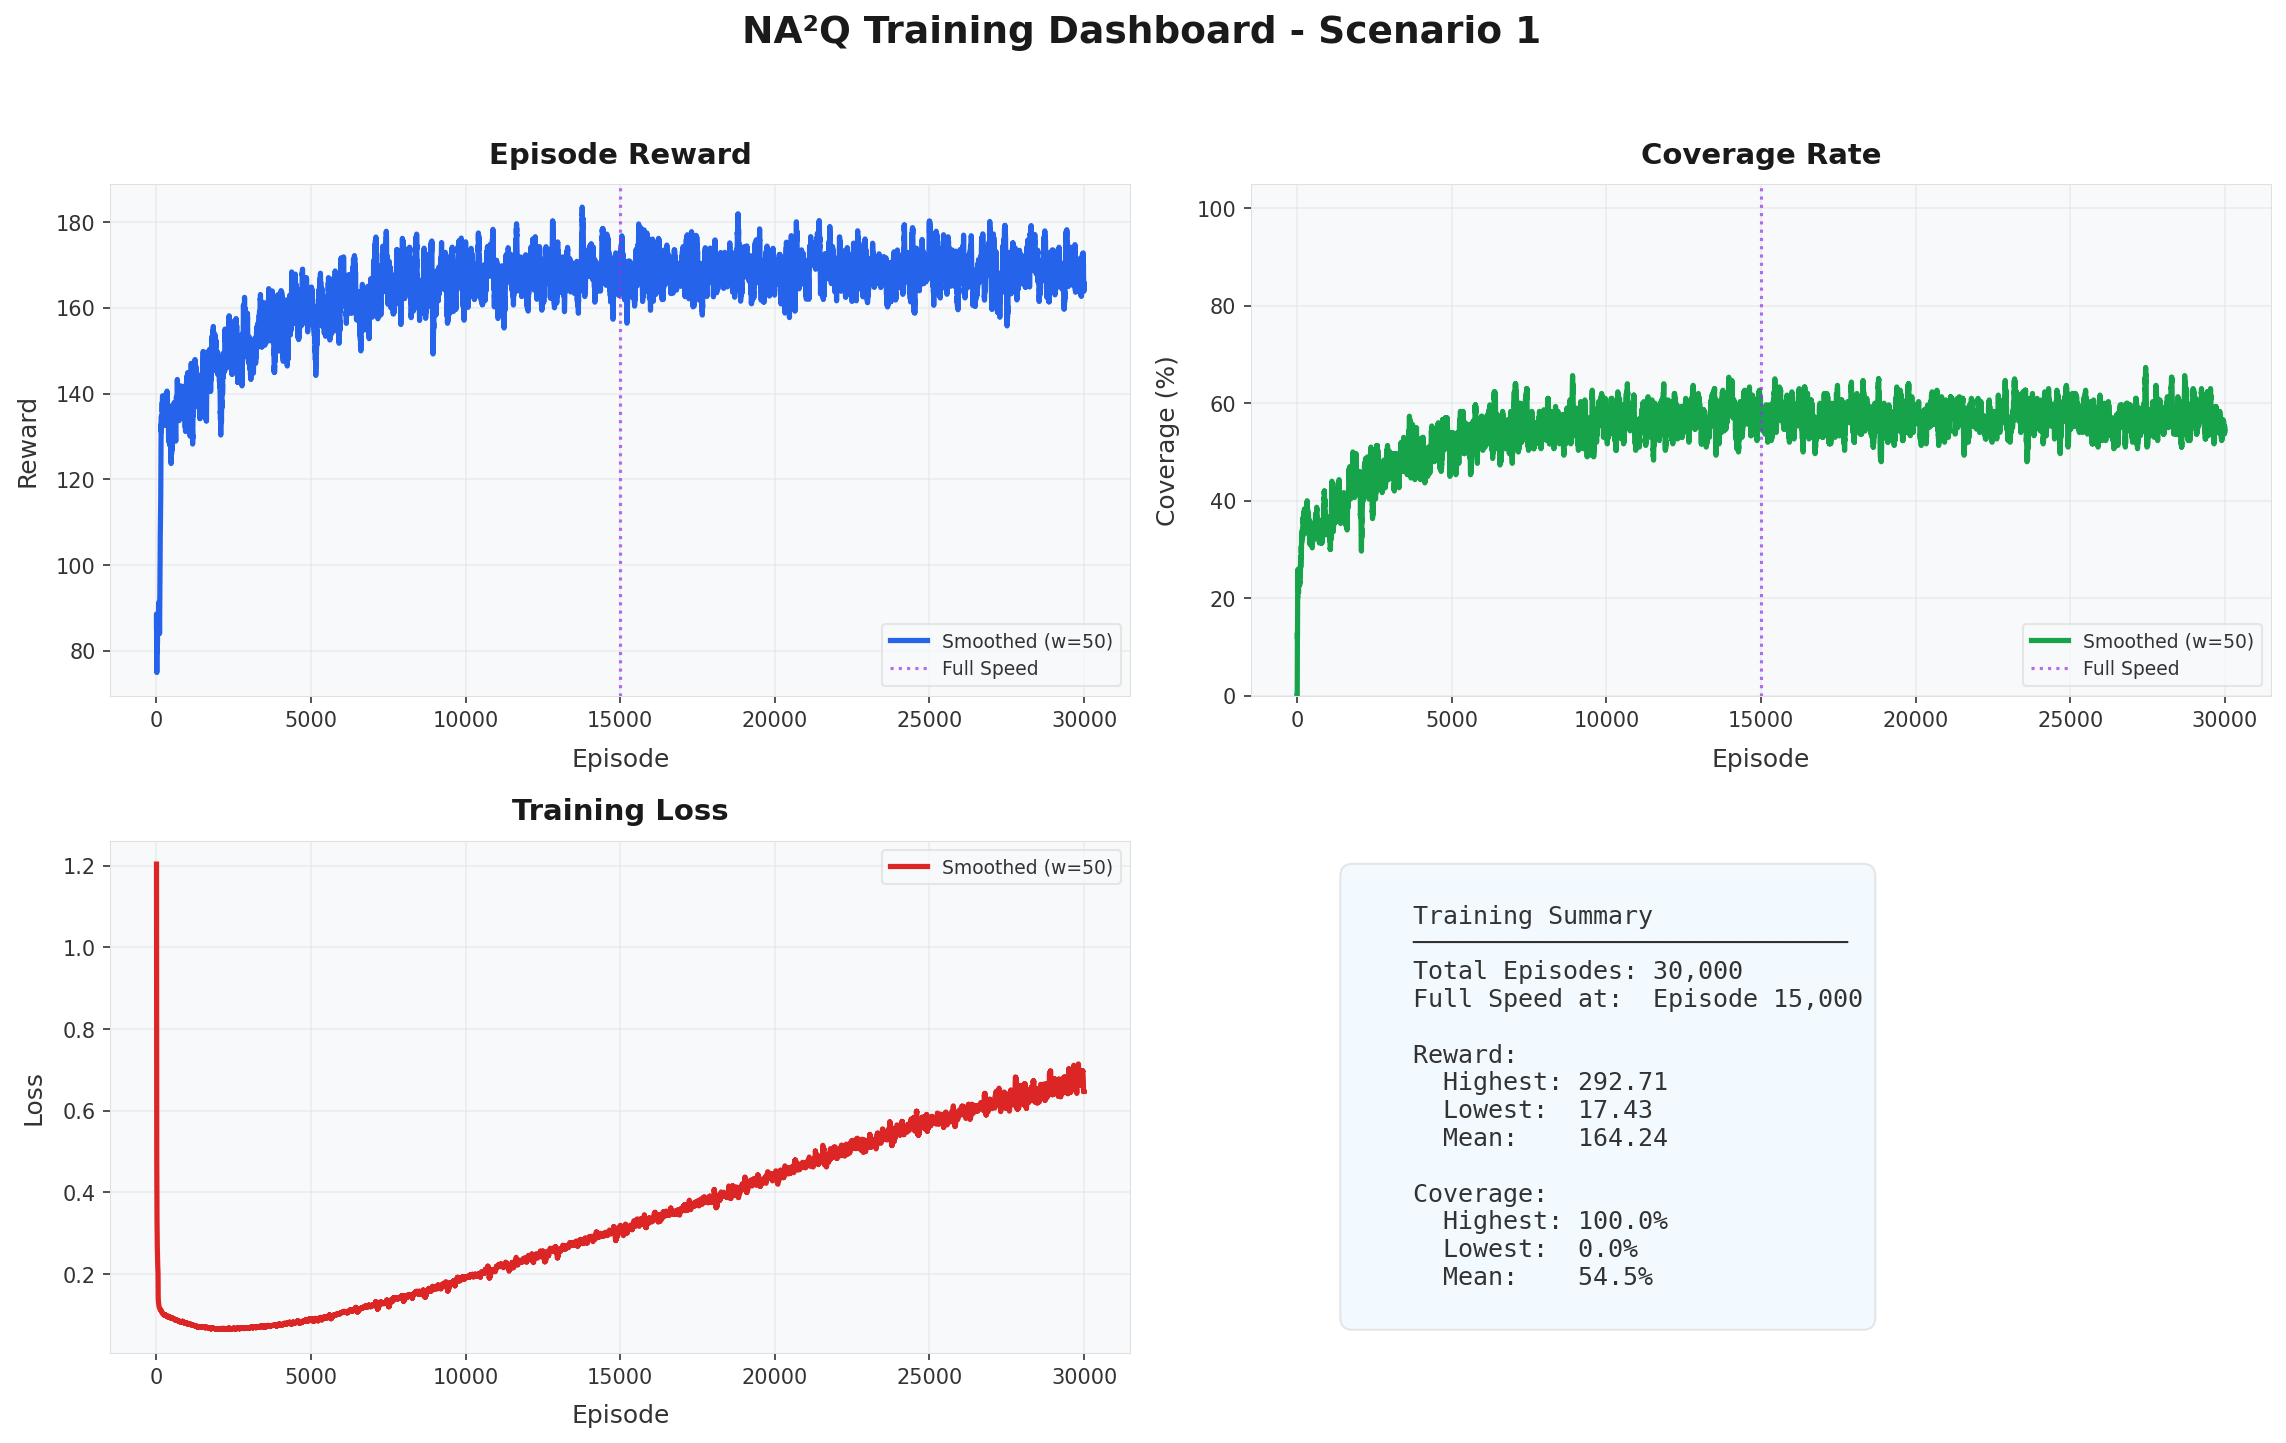
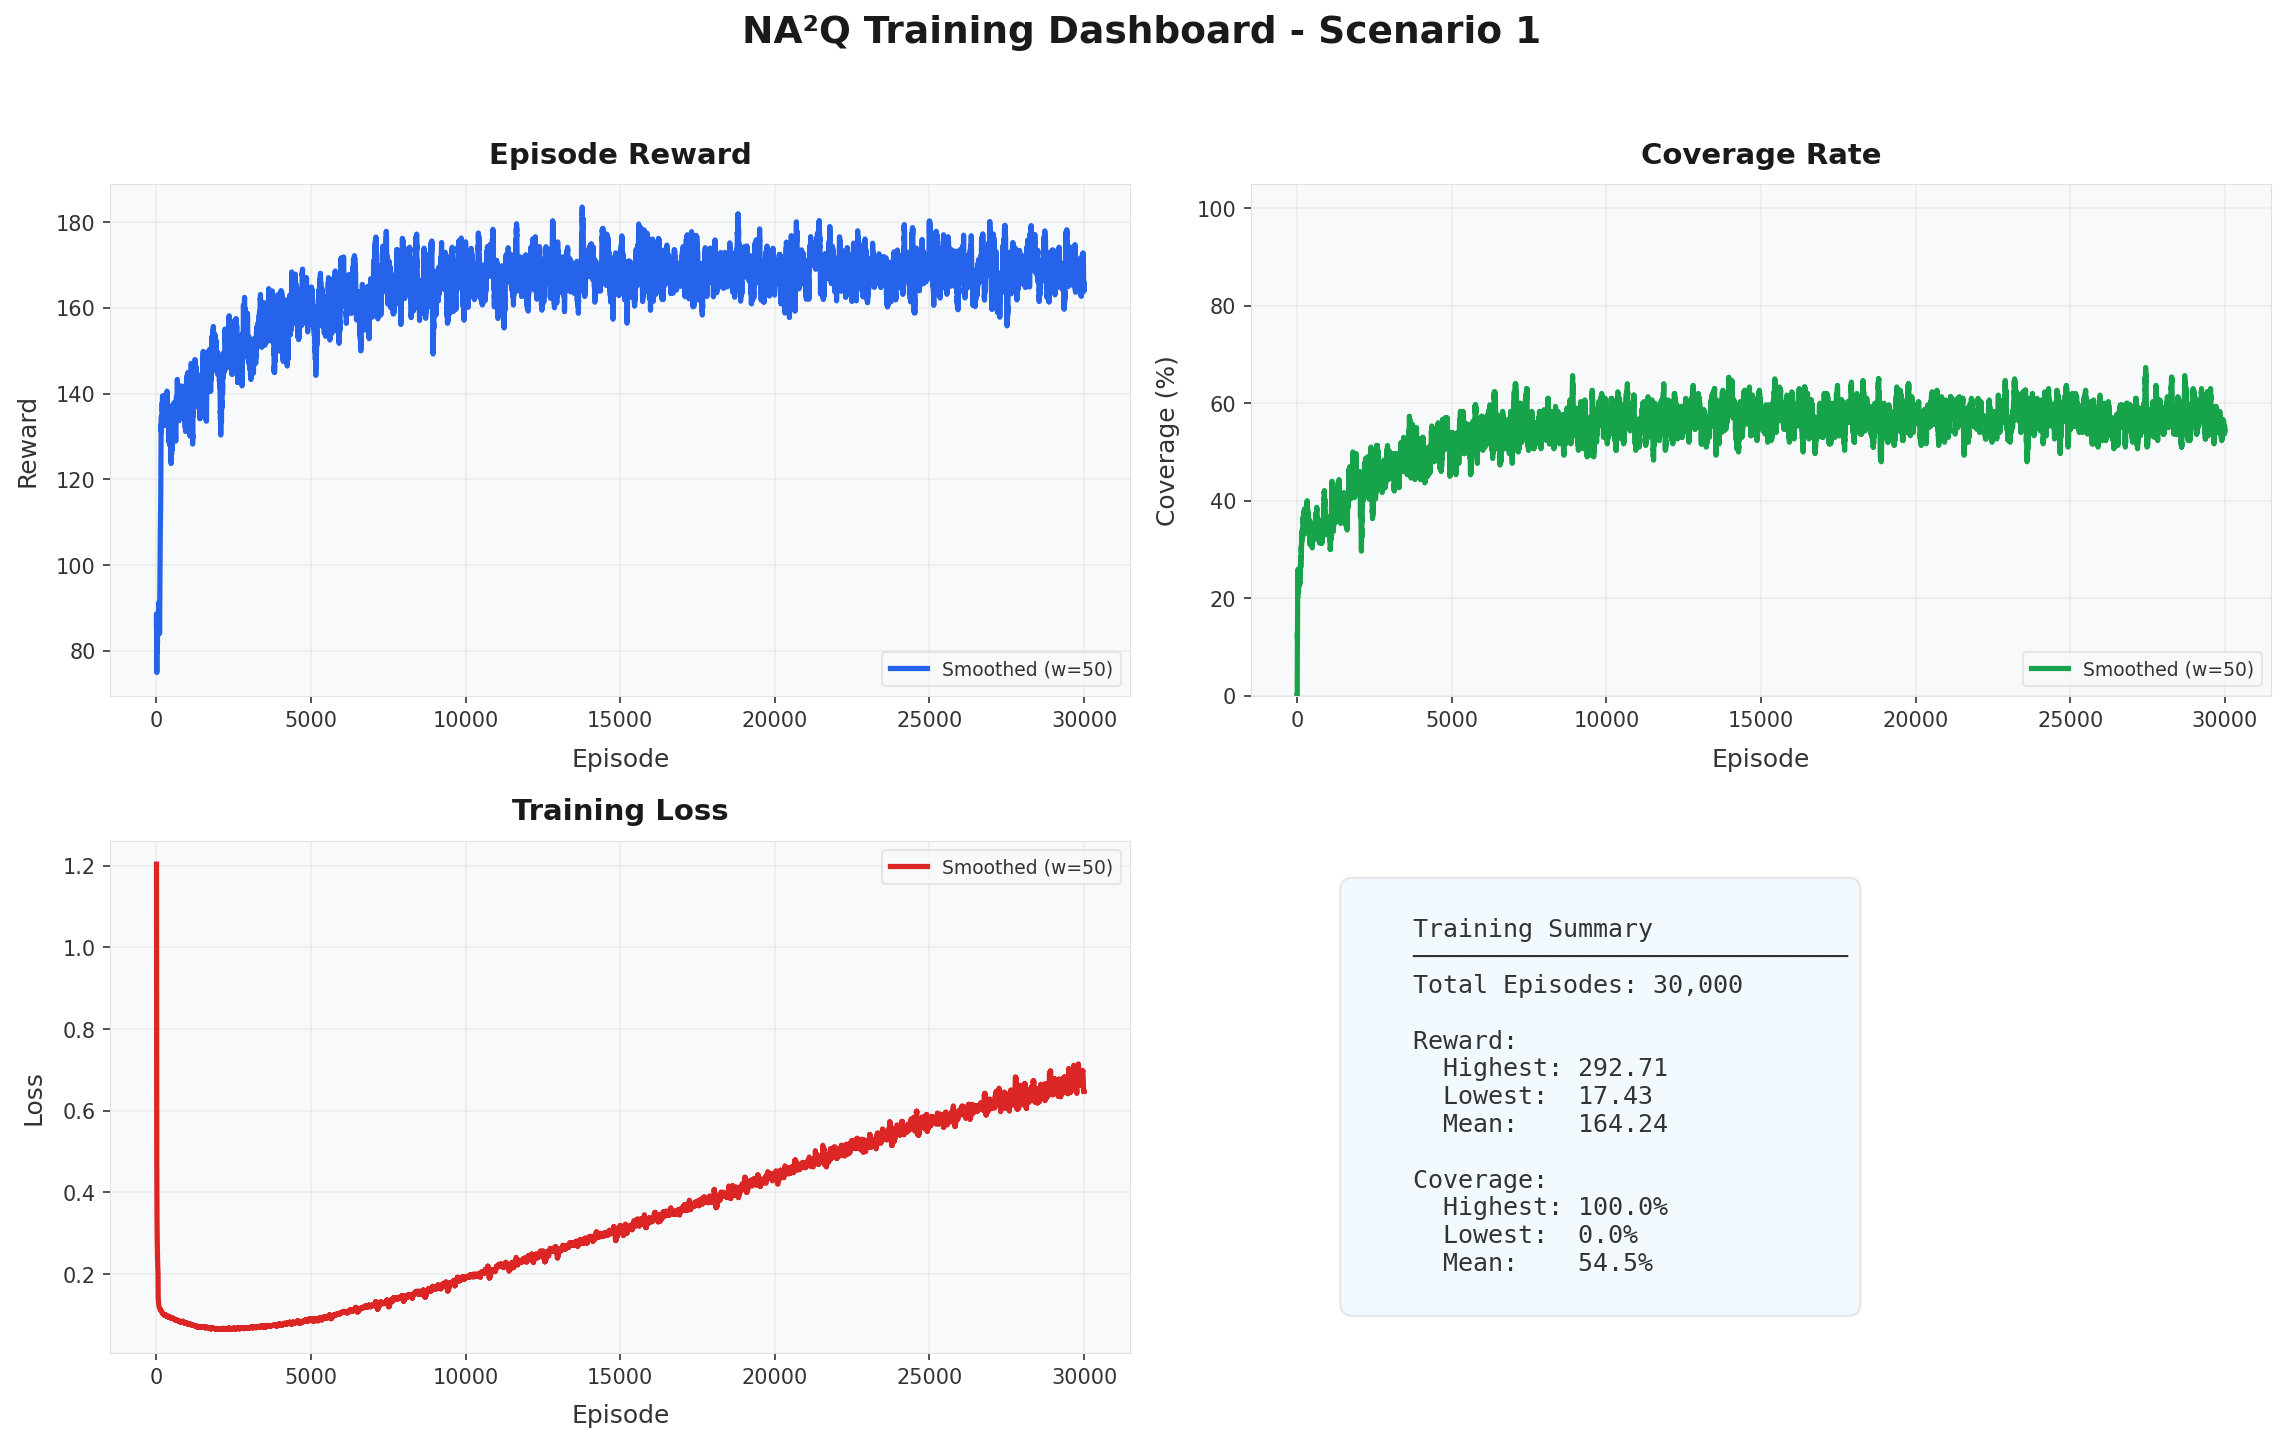
l

Changed region(s): [[0.6212, 0.6237, 0.8075, 0.9044], [0.3727, 0.4366, 0.4969, 0.4678], [0.9007, 0.4366, 0.9939, 0.4678]]

diff --git a/visualize.py b/visualize.py
@@ -103,9 +103,6 @@ def plot_training_results(exp_dir: str, window: int = 50, history_dir: Optional[
     episodes = np.arange(1, len(rewards) + 1)
     coverage_pct = np.array(coverages) * 100
     
-    # Curriculum milestone: targets reach full speed at 50% of episodes
-    full_speed_episode = len(rewards) // 2
-    
     # =========================================================================
     # Light Theme Dashboard
     # =========================================================================
@@ -148,8 +145,6 @@ def plot_training_results(exp_dir: str, window: int = 50, history_dir: Optional[
     ax1 = axes[0, 0]
     smoothed_rewards = smooth_curve(list(rewards), window)
     ax1.plot(episodes, smoothed_rewards, color=REWARD_COLOR, linewidth=2.5, label=f'Smoothed (w={window})')
-    ax1.axvline(x=full_speed_episode, color='#9333ea', linestyle=':', linewidth=1.5,
-                alpha=0.7, label='Full Speed')
     style_axis(ax1, 'Episode Reward', 'Episode', 'Reward', REWARD_COLOR)
     ax1.legend(loc='lower right', facecolor=PANEL_BG, edgecolor=GRID_COLOR, 
                labelcolor=TEXT_COLOR, fontsize=9)
@@ -160,8 +155,6 @@ def plot_training_results(exp_dir: str, window: int = 50, history_dir: Optional[
     ax2 = axes[0, 1]
     smoothed_coverage = smooth_curve(list(coverage_pct), window)
     ax2.plot(episodes, smoothed_coverage, color=COVERAGE_COLOR, linewidth=2.5, label=f'Smoothed (w={window})')
-    ax2.axvline(x=full_speed_episode, color='#9333ea', linestyle=':', linewidth=1.5,
-                alpha=0.7, label='Full Speed')
     style_axis(ax2, 'Coverage Rate', 'Episode', 'Coverage (%)', COVERAGE_COLOR)
     ax2.set_ylim(0, 105)
     ax2.legend(loc='lower right', facecolor=PANEL_BG, edgecolor=GRID_COLOR,
@@ -198,7 +191,6 @@ def plot_training_results(exp_dir: str, window: int = 50, history_dir: Optional[
     Training Summary
     ─────────────────────────────
     Total Episodes: {len(rewards):,}
-    Full Speed at:  Episode {full_speed_episode:,}
     
     Reward:
       Highest: {np.max(rewards):.2f}
@@ -237,10 +229,6 @@ def plot_training_results(exp_dir: str, window: int = 50, history_dir: Optional[
     # Mean line
     ax.axhline(y=np.mean(coverage_pct), color='#f59e0b', linestyle='--', linewidth=2,
                alpha=0.8, label=f'Mean: {np.mean(coverage_pct):.1f}%')
-    
-    # Full speed milestone
-    ax.axvline(x=full_speed_episode, color='#9333ea', linestyle=':', linewidth=2,
-               alpha=0.7, label='Full Speed')
     
     ax.set_xlabel('Episode', fontsize=12, color=TEXT_COLOR)
     ax.set_ylabel('Coverage Rate (%)', fontsize=12, color=TEXT_COLOR)
